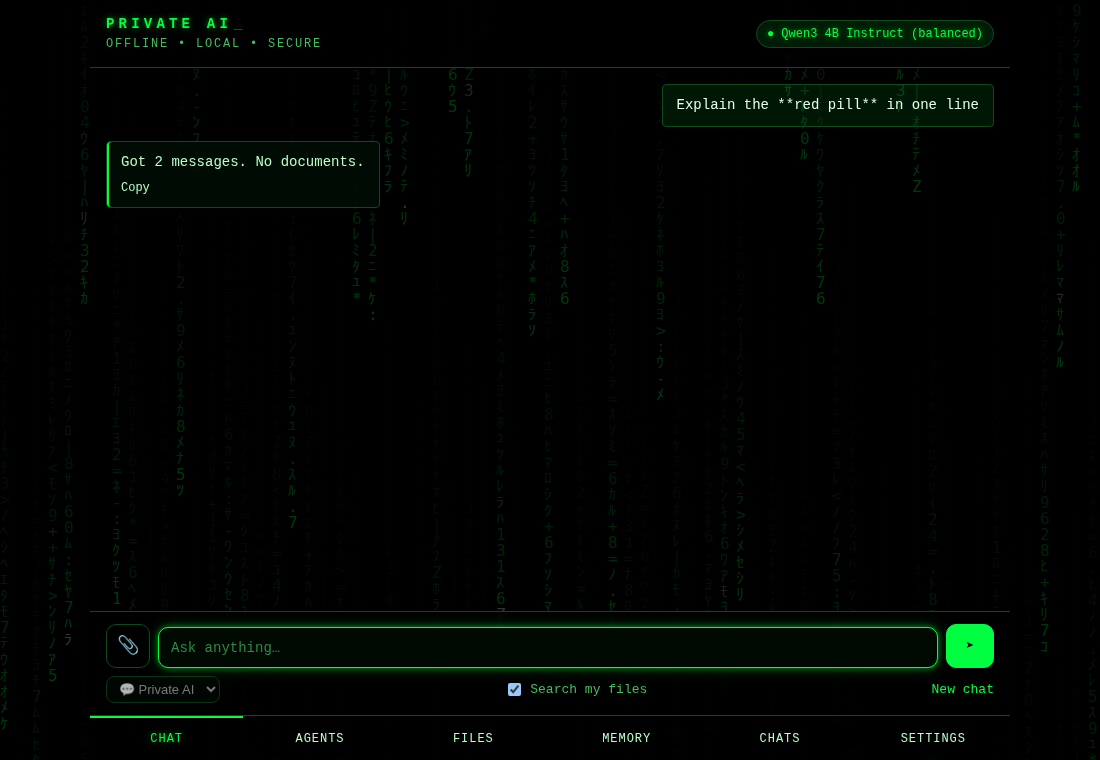
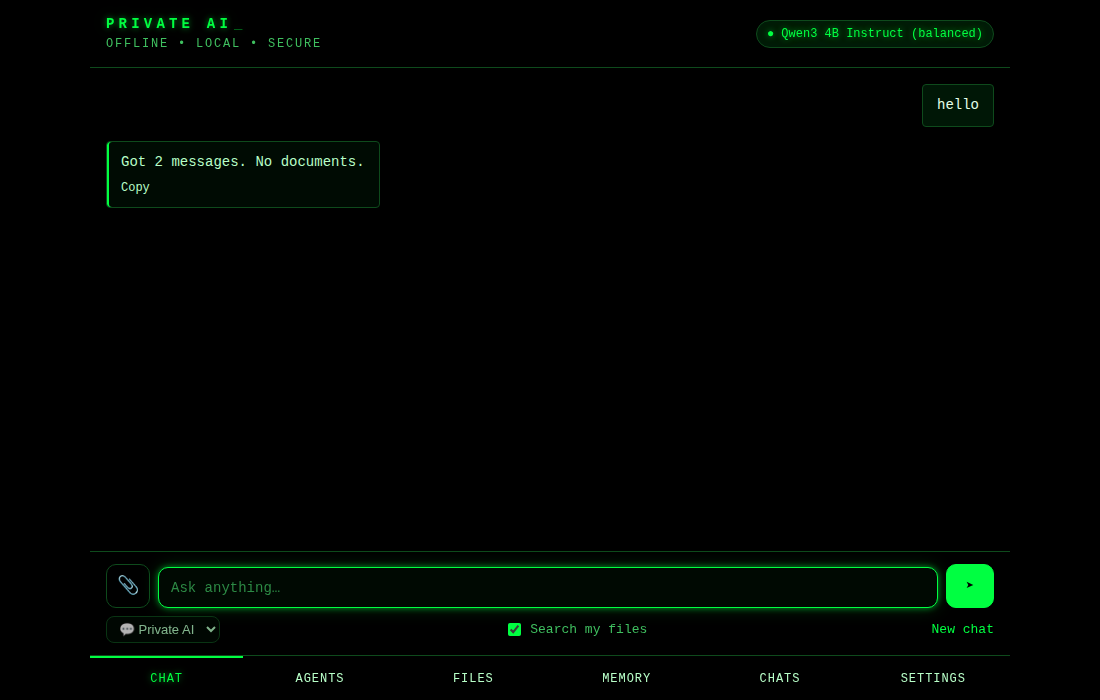
Remove the digital rain animation from the Matrix theme
Claude-Session: https://claude.ai/code/session_01Kez6Bs3Gb9vn9CHpDuP6R5

diff --git a/web/static/app.js b/web/static/app.js
@@ -828,7 +828,7 @@ $("engine-retry").addEventListener("click", async () => {
   refreshStatus();
 });
 
-// ---- Theme: Matrix (default) or Classic, plus the digital rain ----
+// ---- Theme: Matrix (default) or Classic ----
 
 const prefs = (() => {
   const get = (k, d) => { try { return localStorage.getItem(k) ?? d; } catch { return d; } };
@@ -836,72 +836,13 @@ const prefs = (() => {
   return { get, set };
 })();
 
-const rain = (() => {
-  const canvas = $("rain");
-  const ctx = canvas.getContext("2d");
-  const glyphs = "ｱｲｳｴｵｶｷｸｹｺｻｼｽｾｿﾀﾁﾂﾃﾄﾅﾆﾇﾈﾉﾊﾋﾌﾍﾎﾏﾐﾑﾒﾓﾔﾕﾖﾗﾘﾙﾚﾛﾜﾝ0123456789Z:.=*+-<>|";
-  const size = 16;
-  let drops = [], timer = null, last = 0;
-  const reduced = window.matchMedia && matchMedia("(prefers-reduced-motion: reduce)").matches;
-
-  function resize() {
-    const dpr = Math.min(window.devicePixelRatio || 1, 2);
-    canvas.width = innerWidth * dpr;
-    canvas.height = innerHeight * dpr;
-    canvas.style.width = innerWidth + "px";
-    canvas.style.height = innerHeight + "px";
-    ctx.setTransform(dpr, 0, 0, dpr, 0, 0);
-    const cols = Math.ceil(innerWidth / size);
-    drops = Array.from({ length: cols }, (_, i) => drops[i] ?? Math.random() * -innerHeight / size);
-    ctx.fillStyle = "#000";
-    ctx.fillRect(0, 0, innerWidth, innerHeight);
-  }
-  function frame(t) {
-    timer = requestAnimationFrame(frame);
-    if (t - last < 55) return; // ~18 fps keeps CPU use tiny
-    last = t;
-    ctx.fillStyle = "rgba(0, 0, 0, 0.08)"; // fade old glyphs into trails
-    ctx.fillRect(0, 0, innerWidth, innerHeight);
-    ctx.font = `${size}px monospace`;
-    for (let i = 0; i < drops.length; i++) {
-      const y = drops[i] * size;
-      const ch = glyphs[(Math.random() * glyphs.length) | 0];
-      ctx.fillStyle = Math.random() < 0.04 ? "#d8ffe0" : "#00ff41"; // occasional bright head
-      ctx.fillText(ch, i * size, y);
-      if (y > innerHeight && Math.random() > 0.975) drops[i] = 0;
-      drops[i] += 1;
-    }
-  }
-  function start() {
-    if (timer || reduced || document.hidden) return;
-    canvas.classList.remove("hidden");
-    resize();
-    timer = requestAnimationFrame(frame);
-  }
-  function stop() {
-    if (timer) cancelAnimationFrame(timer);
-    timer = null;
-  }
-  function off() { stop(); canvas.classList.add("hidden"); }
-  addEventListener("resize", () => { if (timer) resize(); });
-  document.addEventListener("visibilitychange", () => {
-    if (document.hidden) stop(); else if (wantRain()) start();
-  });
-  return { start, off };
-})();
-
 const theme = () => prefs.get("theme", "matrix");
-const wantRain = () => theme() === "matrix" && prefs.get("rain", "on") === "on";
 
 function applyTheme() {
   document.documentElement.dataset.theme = theme();
   $("theme-select").value = theme();
-  $("rain-on").checked = prefs.get("rain", "on") === "on";
-  $("rain-on").disabled = theme() !== "matrix";
-  if (wantRain()) rain.start(); else rain.off();
 }
 $("theme-select").addEventListener("change", (e) => { prefs.set("theme", e.target.value); applyTheme(); });
-$("rain-on").addEventListener("change", (e) => { prefs.set("rain", e.target.checked ? "on" : "off"); applyTheme(); });
 applyTheme();
 
 // "Wake up…" typed on the lock screen in the Matrix theme.

diff --git a/web/static/style.css b/web/static/style.css
@@ -168,7 +168,7 @@ input[type=range] { padding: 0; }
 }
 
 /* ---- Matrix theme (default) ----------------------------------------- */
-/* Phosphor green on black, terminal type, and "digital rain" behind the UI. */
+/* Phosphor green on black with terminal type. */
 :root[data-theme="matrix"] {
   --bg: #000;
   --surface: rgba(0, 12, 3, 0.88);
@@ -188,7 +188,6 @@ input[type=range] { padding: 0; }
   color-scheme: dark;
 }
 :root[data-theme="matrix"] body { background: #000; font-size: 14px; }
-#rain { position: fixed; inset: 0; z-index: -1; pointer-events: none; opacity: 0.22; }
 :root[data-theme="matrix"] #app { position: relative; }
 
 :root[data-theme="matrix"] .title { color: var(--accent); text-shadow: var(--glow); letter-spacing: .3em; }

diff --git a/web/static/index.html b/web/static/index.html
@@ -9,7 +9,6 @@
 <link rel="stylesheet" href="style.css">
 </head>
 <body>
-<canvas id="rain" aria-hidden="true"></canvas>
 <div id="app">
   <header class="top">
     <div class="brand">
@@ -181,7 +180,6 @@
           <option value="matrix">Matrix (green on black)</option>
           <option value="classic">Classic</option>
         </select>
-        <label class="toggle"><input type="checkbox" id="rain-on" checked> Digital rain</label>
       </div>
       <h3>Privacy</h3>
       <p class="muted">No internet, account or API key is used. Prompts, documents, chats and memory never leave this computer and are stored only on the drive, encrypted with your passphrase. Forgetting the passphrase means the data cannot be recovered.</p>

diff --git a/README.md b/README.md
@@ -103,11 +103,8 @@ Image reader**.
 
 ### Appearance
 
-The default theme is **Matrix**: green on black, terminal type, and the
-falling "digital rain" behind the interface. The rain is drawn at about 18
-frames per second, pauses when the tab is hidden, and stays off if the
-computer's *Reduce motion* setting is on. Switch to **Classic** or turn the
-rain off under **Settings → Appearance**. The choice is remembered in this
+The default theme is **Matrix**: green on black with terminal type. Switch to
+**Classic** under **Settings → Appearance**. The choice is remembered in this
 browser.
 
 ### Faster loading (model cache)
